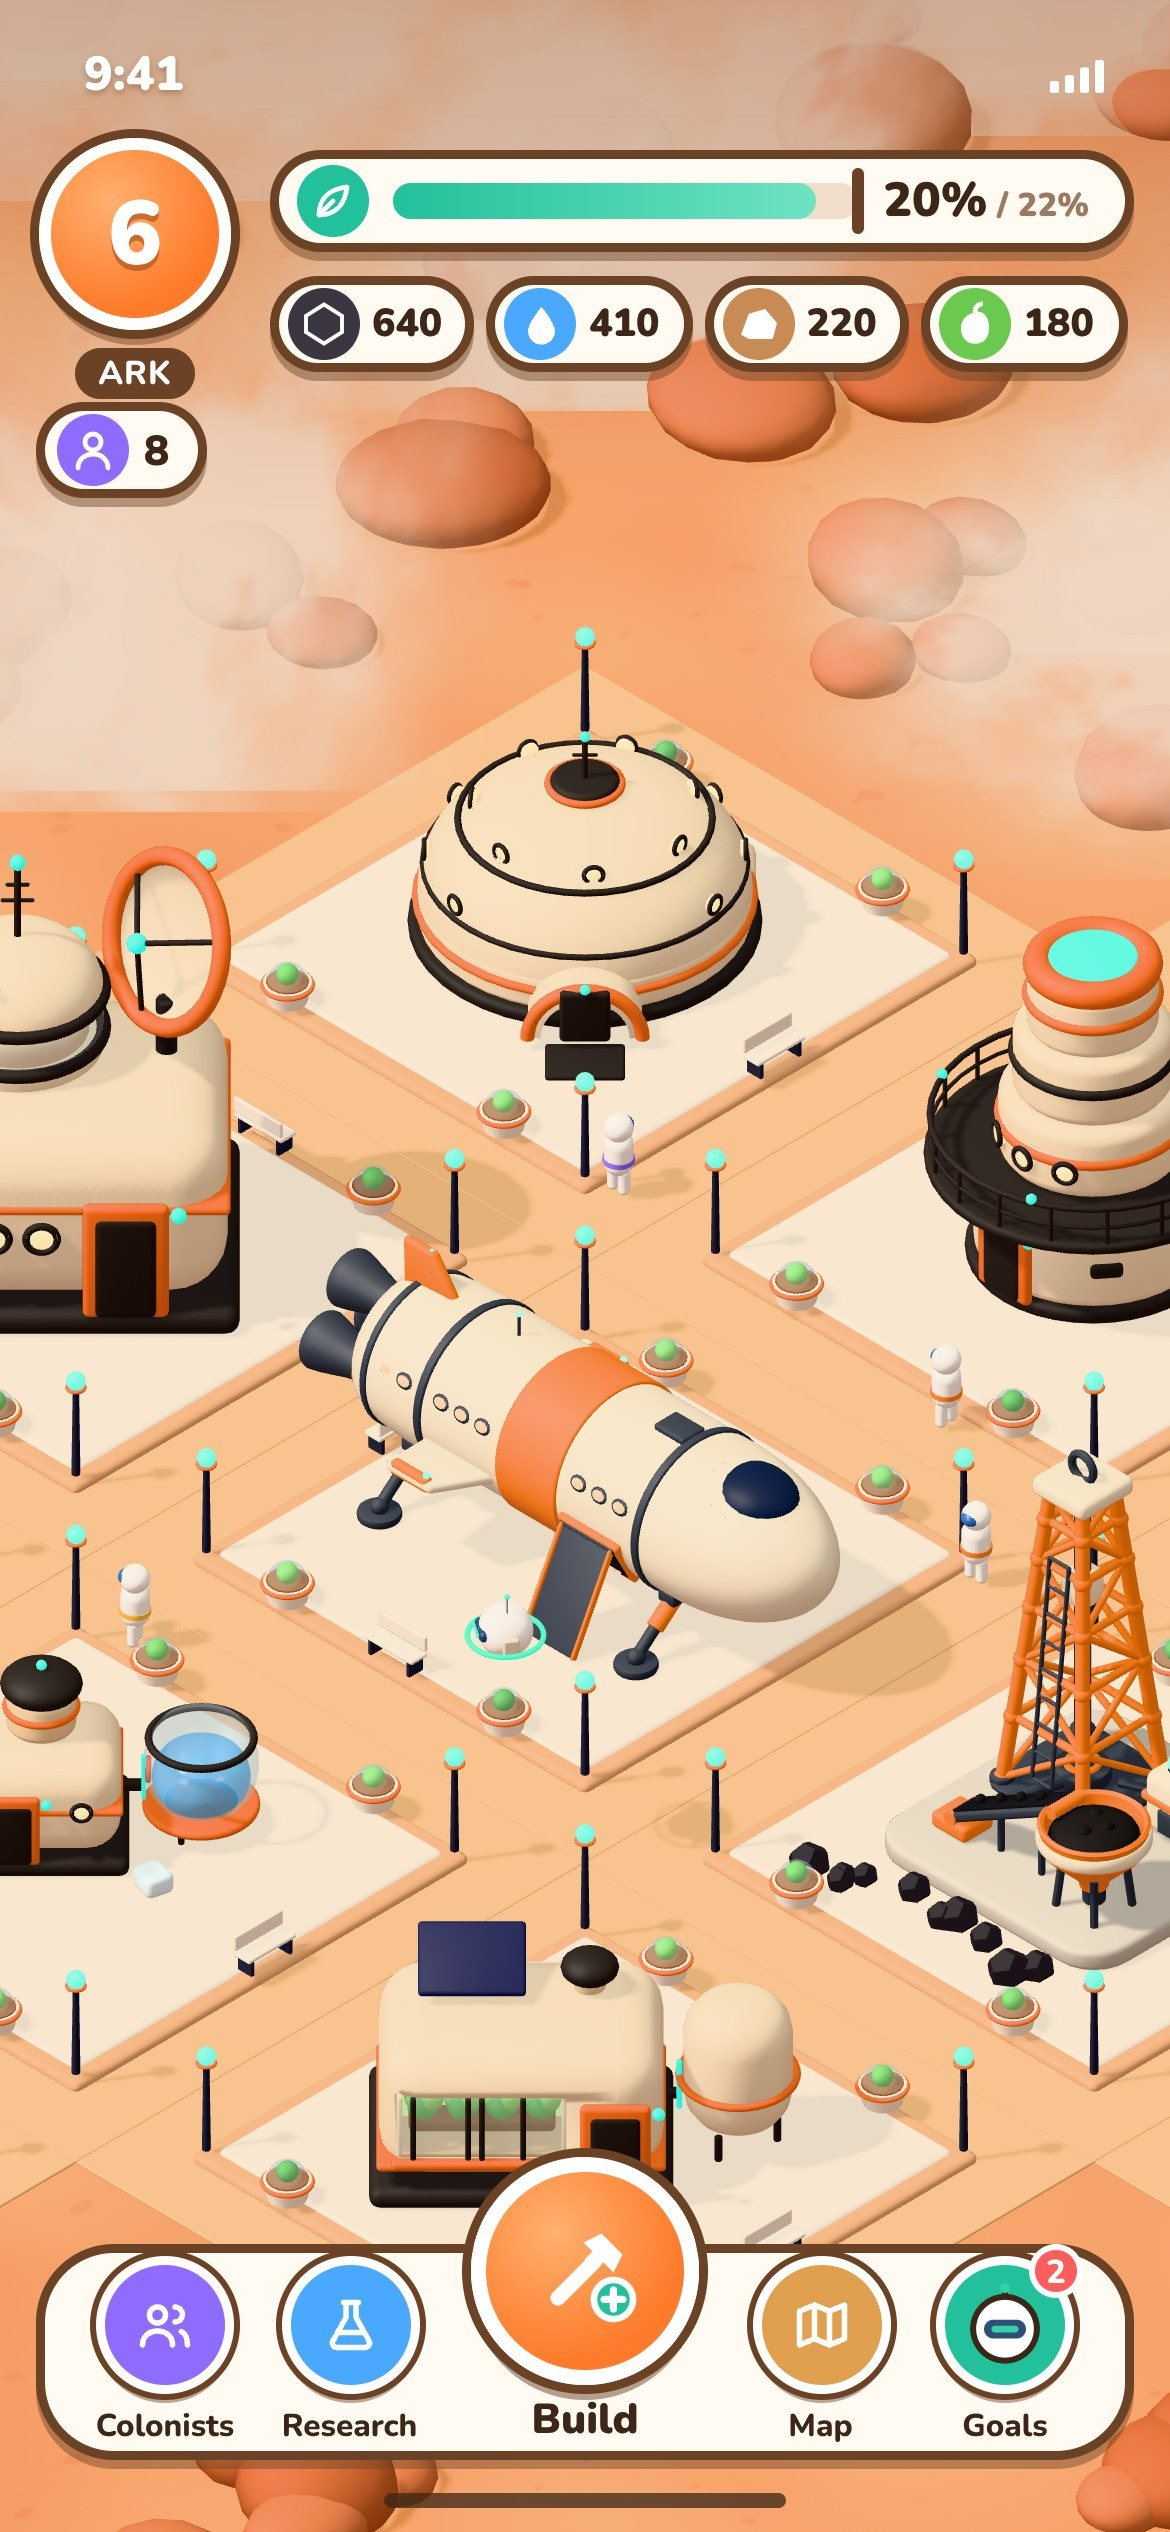
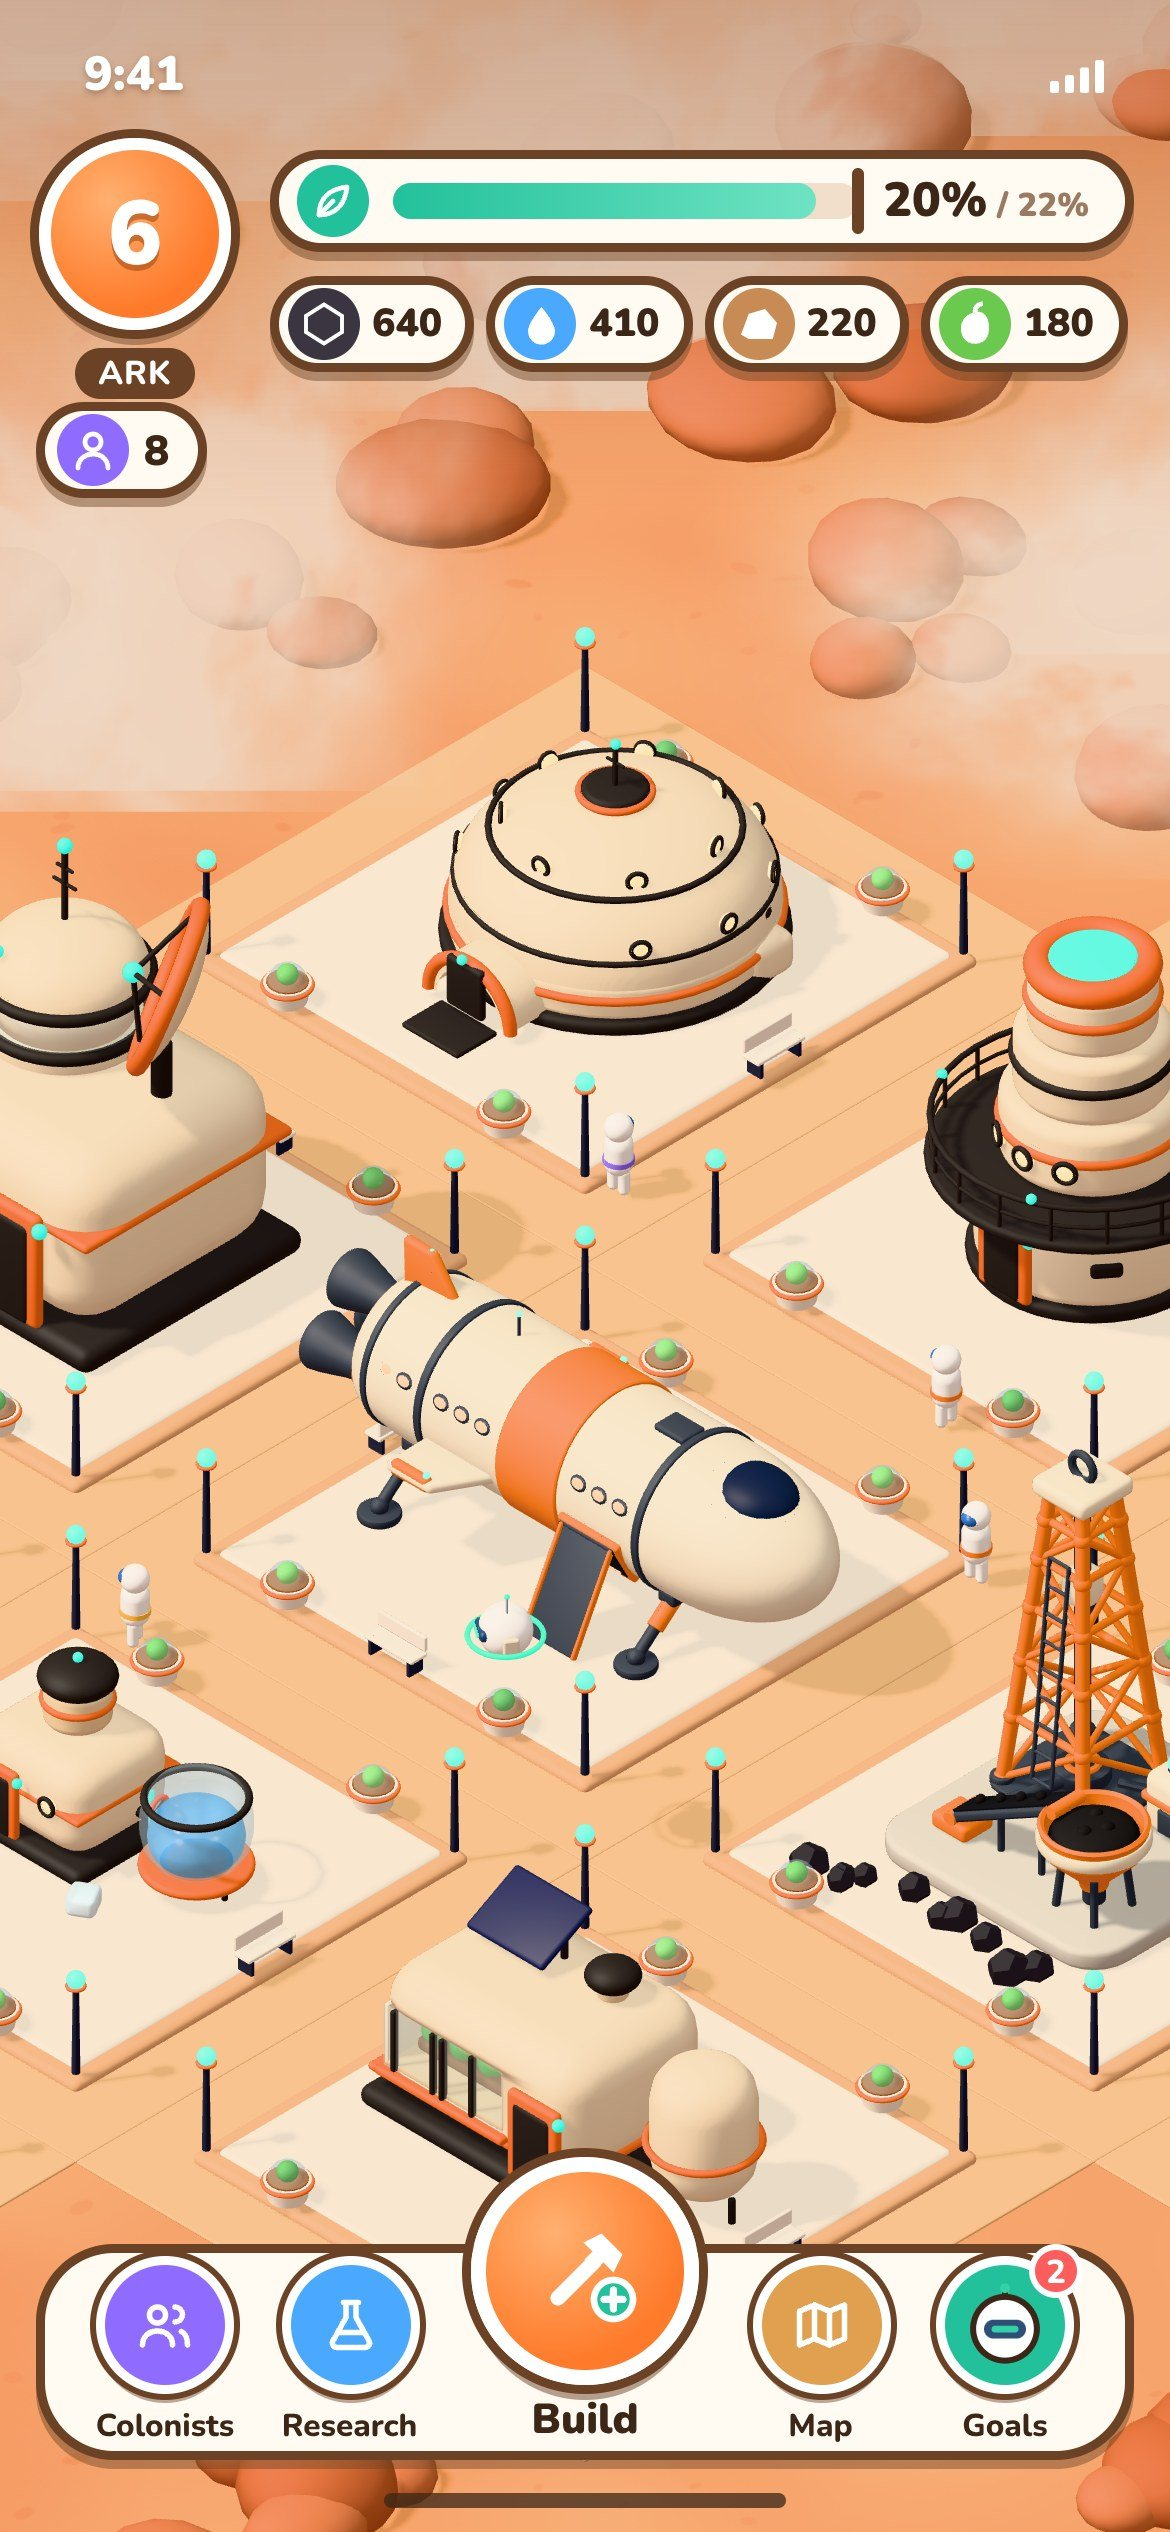
Square the map buildings to the street grid
Joro: the buildings should not face the viewer but sit like on the sheet,
seen from their corner. The #kk buildings are no longer turned by 45
degrees; the map frames are shot again.

Claude-Session: https://claude.ai/code/session_01HQgMkgwDtghkDYBP35HLe9

diff --git a/mockup/src/map.js b/mockup/src/map.js
@@ -263,24 +263,25 @@ const base = {
   '2,2': b => { add(B.greenhouse(8, S), b.cx, 0.3, b.cz - 2.8, 0, 0.95); add(B.greenhouse(8, S), b.cx, 0.3, b.cz + 2.8, 0, 0.95); },
   '-2,2': b => { add(shadowAll(K.geolocator()), b.cx - 2, 0.4, b.cz - 2, 0, 0.7); for (let i = 0; i < 3; i++) { const p = rb(3.0, 0.15, 2.0, M.solar, 0.05, 1); p.rotation.x = -0.35; add(p, b.cx + 3, 1.0, b.cz - 3.5 + i * 3.4); } if (S >= 1) add(B.battery(), b.cx - 3.6, 0.4, b.cz + 3.6, 0, 0.9); if (S > 1) add(B.radome(), b.cx - 0.6, 0.4, b.cz + 3.8, 0, 0.9); },
 };
-// with #kk… the plots of chapter 1 get the round buildings; the Ark and the carbon drill stay the CellCog models
+// with #kk… the plots of chapter 1 get the round buildings, square to the street grid like the plots, so the camera
+// sees each one from its corner with the door on the left face; the Ark and the carbon drill stay the CellCog models
 const kkBase = {
-  '-1,1': b => { add(kk('pump', 8.2), b.cx, 0.4, b.cz, Math.PI / 4); },
+  '-1,1': b => { add(kk('pump', 8.2), b.cx, 0.4, b.cz, 0); },
   '1,-1': b => { add(kk('processor', 7.6), b.cx, 0.4, b.cz); if (S >= 1) add(kk('processor', 4.2), b.cx + 4.0, 0.4, b.cz - 4.0); },
-  '-1,-1': b => add(kk('research', 8.2), b.cx, 0.4, b.cz, Math.PI / 4),
-  '0,2': b => add(kk('veglab', 9.6), b.cx, 0.4, b.cz, Math.PI / 4),
-  '0,-2': b => add(kk('dome', 9.8), b.cx, 0.4, b.cz, Math.PI / 4),
-  '2,0': b => { add(kk('kitchen', 10.2), b.cx, 0.4, b.cz, Math.PI / 4); dust(b.cx - 1.4, 7.4, b.cz - 1.6, 2.4, 0xffffff, 0.45); },
-  '-2,0': b => { add(kk('mine', 10), b.cx, 0.4, b.cz, Math.PI / 4); },
-  '2,-2': b => add(kk('warehouse', 10), b.cx, 0.4, b.cz, Math.PI / 4),
-  '2,2': b => add(kk('greenhouse', 10.4), b.cx, 0.4, b.cz, Math.PI / 4),
-  '-2,2': b => { add(kk('solar', 6.4), b.cx + 2.4, 0.4, b.cz - 2.4, Math.PI / 4); add(kk('batteries', 5.2), b.cx - 3.0, 0.4, b.cz + 3.0, Math.PI / 4); add(kk('geolocator', 3.4), b.cx - 3.4, 0.4, b.cz - 3.4, Math.PI / 4); },
+  '-1,-1': b => add(kk('research', 8.2), b.cx, 0.4, b.cz, 0),
+  '0,2': b => add(kk('veglab', 9.6), b.cx, 0.4, b.cz, 0),
+  '0,-2': b => add(kk('dome', 9.8), b.cx, 0.4, b.cz, 0),
+  '2,0': b => { add(kk('kitchen', 10.2), b.cx, 0.4, b.cz, 0); dust(b.cx - 1.4, 7.4, b.cz - 1.6, 2.4, 0xffffff, 0.45); },
+  '-2,0': b => { add(kk('mine', 10), b.cx, 0.4, b.cz, 0); },
+  '2,-2': b => add(kk('warehouse', 10), b.cx, 0.4, b.cz, 0),
+  '2,2': b => add(kk('greenhouse', 10.4), b.cx, 0.4, b.cz, 0),
+  '-2,2': b => { add(kk('solar', 6.4), b.cx + 2.4, 0.4, b.cz - 2.4, 0); add(kk('batteries', 5.2), b.cx - 3.0, 0.4, b.cz + 3.0, 0); add(kk('geolocator', 3.4), b.cx - 3.4, 0.4, b.cz - 3.4, 0); },
 };
 const kkGrown = {
-  '0,-4': b => add(kk('dome', 9.8), b.cx, 0.2, b.cz, Math.PI / 4),
-  '-2,4': b => add(kk('greenhouse', 10.4), b.cx, 0.2, b.cz, Math.PI / 4),
-  '1,-5': b => { add(kk('furnace', 8.8), b.cx, 0.2, b.cz, Math.PI / 4); for (let i = 0; i < 2; i++) dust(b.cx - 1.2 + i * 0.4, 12.5 + i * 2.2, b.cz - 1.2 - i, 3 + i * 1.6, S > 1 ? 0xffffff : 0xe8e0d8, (0.5 - i * 0.15) * (S > 1 ? 0.45 : 1)); },
-  '-2,-4': b => { add(kk('solar', 6.4), b.cx - 2.6, 0.2, b.cz - 2.6, Math.PI / 4); add(kk('solar', 6.4), b.cx + 2.6, 0.2, b.cz - 2.6, Math.PI / 4); add(kk('batteries', 5.2), b.cx - 2.6, 0.2, b.cz + 2.8, Math.PI / 4); add(shadowAll(K.turbine(0.6)), b.cx + 3.6, 0.2, b.cz + 3.4, 0.8, 0.6); },
+  '0,-4': b => add(kk('dome', 9.8), b.cx, 0.2, b.cz, 0),
+  '-2,4': b => add(kk('greenhouse', 10.4), b.cx, 0.2, b.cz, 0),
+  '1,-5': b => { add(kk('furnace', 8.8), b.cx, 0.2, b.cz, 0); for (let i = 0; i < 2; i++) dust(b.cx - 1.2 + i * 0.4, 12.5 + i * 2.2, b.cz - 1.2 - i, 3 + i * 1.6, S > 1 ? 0xffffff : 0xe8e0d8, (0.5 - i * 0.15) * (S > 1 ? 0.45 : 1)); },
+  '-2,-4': b => { add(kk('solar', 6.4), b.cx - 2.6, 0.2, b.cz - 2.6, 0); add(kk('solar', 6.4), b.cx + 2.6, 0.2, b.cz - 2.6, 0); add(kk('batteries', 5.2), b.cx - 2.6, 0.2, b.cz + 2.8, 0); add(shadowAll(K.turbine(0.6)), b.cx + 3.6, 0.2, b.cz + 3.4, 0.8, 0.6); },
 };
 const housing = b => { for (const [x, z] of [[-3, -3], [3, -3], [-3, 3], [3, 3]]) home(b.cx + x, b.cz + z); if (S >= 1) { bush(b.cx, b.cz + 0.2, 0.8); bush(b.cx - 0.3, b.cz - 5.2, 0.6); } if (S === 2) for (let i = 0; i < 3; i++) tree(b.cx - 5 + rnd() * 10, b.cz - 5 + rnd() * 10, 0.6); };
 const park = (b, big) => {

diff --git a/docs/notes.md b/docs/notes.md
@@ -117,6 +117,7 @@
 
 | Дата | Промяна | Статус |
 | --- | --- | --- |
+| 05.11.2026 | Жоро: в макета сградите да стоят като на листа, подравнени с мрежата, а не обърнати с лице към камерата. В map.html сградите вече не са завъртени на 45°: камерата ги вижда откъм ъгъла, вратата е на лявата стена; кадрите map-kk-* са направени наново | Готово |
 | 05.11.2026 | Жоро избра стила на сградите: първия вариант на CellCog (кремави заоблени тела, оранжева лента, тъмна основа, светещи прозорци). Моделите са направени в Blender по картинката, защото кредитите на CellCog свършиха; там, където има стъкло (кухня, лаборатория, оранжерия, рисърч, резервоари), то е прозрачно и вътре се вижда. Добавени са помпата, панелите, батериите и геолокаторът в същия стил. 13 сгради в art/3d/buildings, в map.html#kk20, нови кадри в mockup/screens | Готово |
 | 05.11.2026 | Жоро: KayKit в макета, но по-детайлно, със стъкло, през което се вижда вътре, и без остри ръбове, по детски и заоблено. Направени са 12 сгради на глава 1 в Blender (art/3d/buildings, с README): кремави кръгли тела с оранжев пояс като Ковчега, прозрачни куполи и стъклени стаи с легла, маси и растения вътре, прозорчета, които светят нощем; мебелите и кухнята са от KayKit (CC0). Първият вариант с модулите на KayKit отпадна след независим преглед: осмоъгълните им тела остават с твърди ръбове. В макета: map.html#kk20, #kk50, #kk20-night; кадри в mockup/screens (buildings-kk, map-kk-*). Предложение | Готово |
 | 05.11.2026 | Жоро: кои са най-добрите 3D модели за сградите. Сравнени са безплатните пакети KayKit Space Base Bits, Quaternius Ultimate Space и Kenney Space Kit (всички CC0), снимани с камерата под ъгъл, и сегашните модели от CellCog; страницата „Zerks-X6: 3D модели“ (https://claude.ai/artifact/GNZuCB7BexzbsjxjXqyYvJ). Най-добър готов комплект: KayKit, пребоядисан в кремаво и оранжево (предложение); Ковчегът и сондата от CellCog остават. CellCog направи първи вариант на 9 сгради (само картинка), но кредитите свършиха (218 изхарчени, сметката е на −184) и моделите не са изпратени | Готово |
